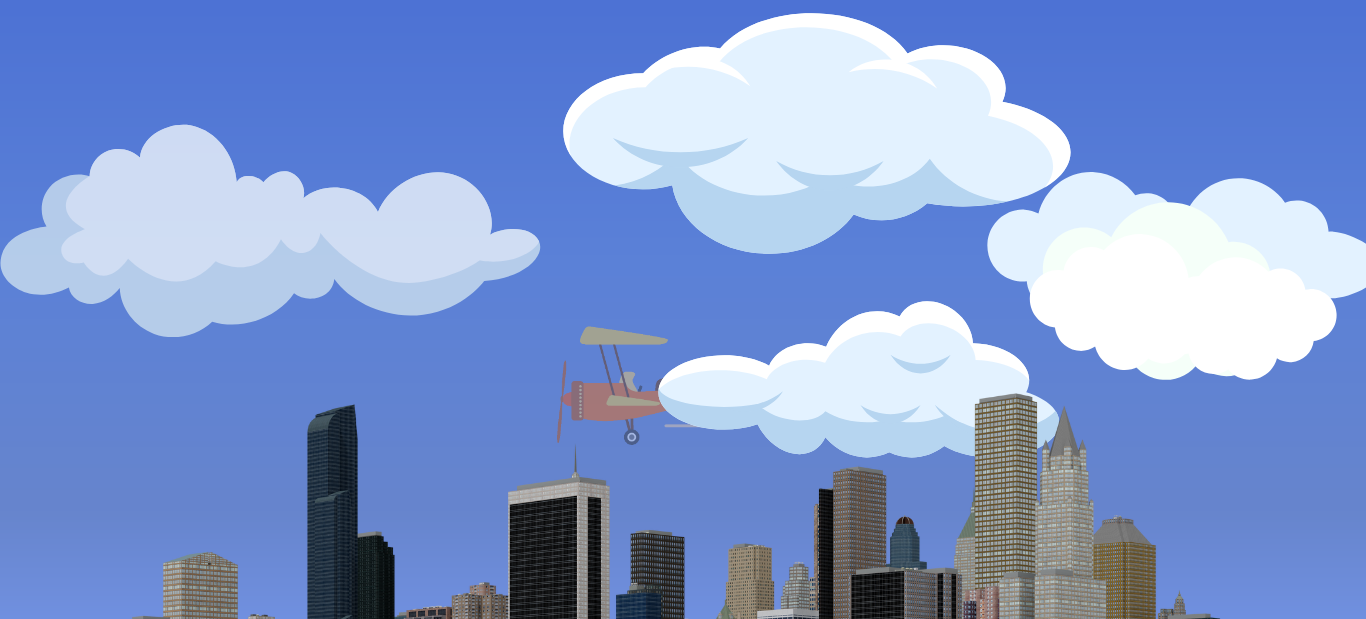
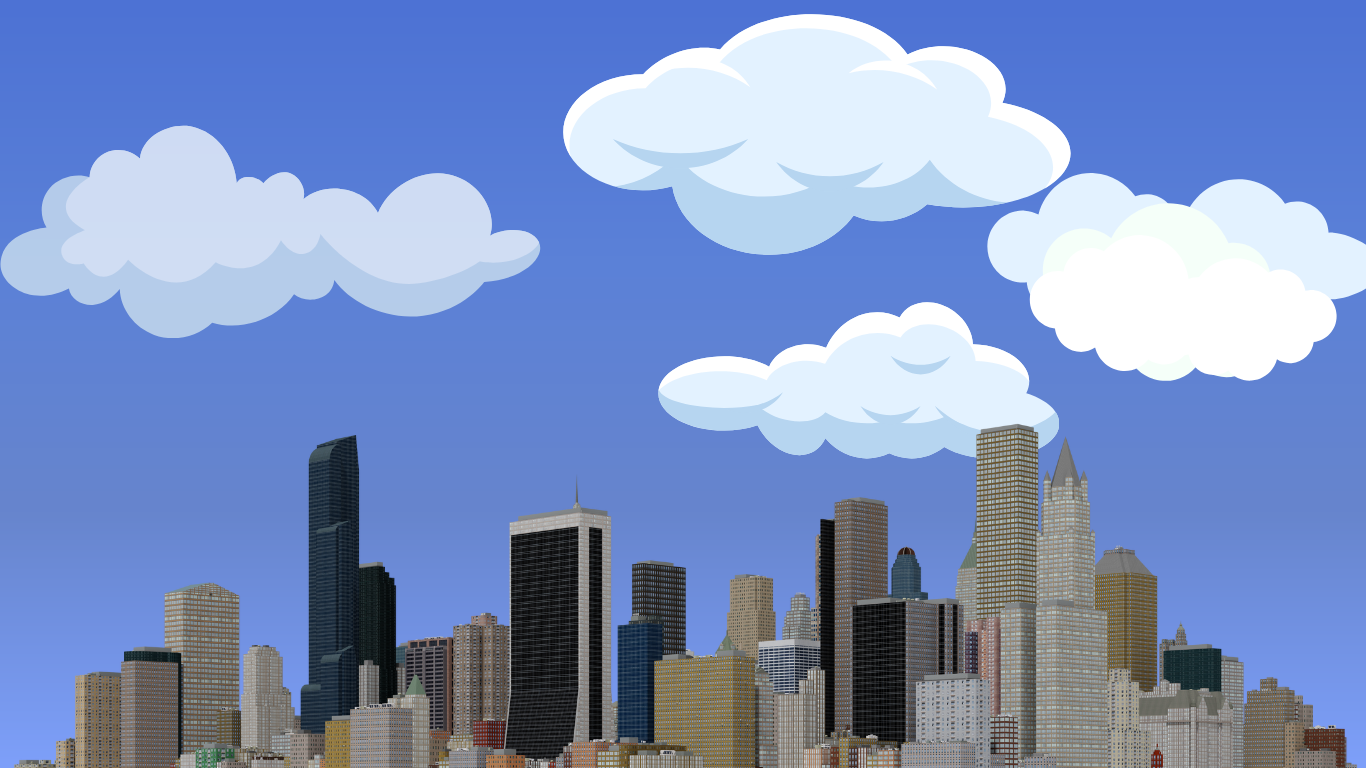
animations

diff --git a/index.html b/index.html
@@ -78,7 +78,9 @@
             <h1>Explore o mundo da ciência com a gente</h1>
           </div>
           <div class="col-12 col-lg-6">
-            <img src="img/index/logo-index.png" alt="Logo de ciencias" />
+            <div class="main-logo"> <img  src="img/index/index-logo.png" alt="Logo de ciencias" /></div>
+           
+            <div class="main-foguete"> <img  src="img/index/index-foguete.png" alt="Logo de ciencias" /></div>
           </div>
         </div>
       </div>
@@ -302,7 +304,7 @@
       <div class="container">
         <h3 class="depositions-title text-center">Depoimentos</h3>
         <div class="row text-center d-flex justify-content-around">
-          <div class="my-card col-lg-4">
+          <div class="my-card col-12 col-lg-4">
             <img src="img/cat-gbb831336d_640.jpg" alt="" />
 
             <p class="pt-3">lorem ipsum</p>
@@ -314,7 +316,7 @@
             </p>
             <b><i class="pt-3">lorem ipsum</i></b>
           </div>
-          <div class="my-card col-lg-4">
+          <div class="my-card col-12 col-lg-4">
             <img src="img/cat-gbb831336d_640.jpg" alt="" />
 
             <p class="pt-3">lorem ipsum</p>
@@ -326,7 +328,7 @@
             </p>
             <b><i class="pt-3">lorem ipsum</i></b>
           </div>
-          <div class="my-card col-lg-4">
+          <div class="my-card col-12 col-lg-4">
             <img src="img/cat-gbb831336d_640.jpg" alt="" />
             <p class="pt-3">lorem ipsum</p>
             <p class="pt-3 pb-3  text-left">
@@ -402,7 +404,9 @@
       </div>
     </section>
     <section class="city">
-      <div class="container"></div>
+      <div class="container">
+        <img src="img/index/index-aviao.gif" alt="">
+      </div>
     </section>
     <footer class="pt-3">
       <div class="container-fluid">

diff --git a/style/style_index.css b/style/style_index.css
@@ -9,15 +9,36 @@ header {
 
 .main {
     background: url("../img/index/index-background.png") no-repeat 0 0;
- 
     background-size: cover;
-    min-height: 768px;
-    width: 100%;
+    max-height: 768px;
+
   }
 
-  .main img {
+  .main-logo img {
     min-width: 100%;
     transform: translate(-13%, -3%);
+  }
+
+   .main-foguete img {
+    max-width: 100%;
+    transform: translate(50%, -115%);
+    animation: UpDown 3s linear infinite;
+    font-size: 4em;
+      cursor: pointer;
+      color: #715c3f;
+  
+  }
+  
+  @keyframes UpDown {
+    0% {
+      transform: translate(50%, -115%);
+    }
+    50% {
+      transform: translate(50%, -110%);
+    }
+    100% {
+      transform: translate(50%, -115%);
+    }
   }
   .main-title {
     margin: 150px 0 50px 0;
@@ -130,6 +151,11 @@ header {
     background: url("../img/index/index-background-6.png") no-repeat 0 0;
     background-size: cover;
     min-height: 768px;
+  }
+
+  .city img {
+    height: 125px;
+    transform: translate(200%, 250%);
   }
 
   .night {
@@ -600,7 +626,28 @@ header {
 .owl-next img {
   display: none;
 }
+@media only screen and (min-width:1840px) {
+  .main, .events, .info, .depositions, .galery, .city  {
+   min-height: 1200px;
+  }
+ }
+
+@media only screen and (min-width:1367px) and (max-width:1839px) {
+ .main, .events, .info, .depositions, .galery, .city  {
+  min-height: 1000px;
+ }
+}
+
+@media only screen and (max-width:992px) {
+.main {
+  min-height: 768px;
+}
+}
 @media only screen and (max-width: 767px) {
+
+  .main-foguete img {
+    max-width: 250px;
+  }
   .main-reviewimage {
     height: 400px;
     width: 425px;

diff --git a/style/style_inovacao.css b/style/style_inovacao.css
@@ -1,11 +1,11 @@
 header {
-  background-color: #9D513D;
+  background-color: #A76F03;
 }
 
 
 /* main */
 .main {
-    background-color: #9D513D;
+    background-color: #A76F03;
     background-size: cover;
     
   }
@@ -19,16 +19,16 @@ header {
   }
   /* course */
   .course {
-    background-color: #D0A94C;
+    background-color: #9B2B0A;
     background-size: cover;
   
   }
 
   .area {
-    background-color: #9D513D;
+    background-color: #A76F03;
   }
   .card-area {
-    background-color: #D0A94C;
+    background-color: #FC744A;
   }
   .area-title {
     color: #000000;

diff --git a/style/style_programacao.css b/style/style_programacao.css
@@ -41,7 +41,7 @@ header {
   }
 /* teacher */
   .teacher {
-    background: url("../img/programacao/programacao-background-2.png");
+    background:  linear-gradient(180deg, #383A46 0%, #000000 50%, #000000 100%);
   }
 
   .teacher p,

diff --git a/style/style_ciencias.css b/style/style_ciencias.css
@@ -40,7 +40,7 @@ header {
   }
   /* teacher */
   .teacher {
-    background: url("../img/ciencias/ciencias-background-2.png");
+    background:  linear-gradient(180deg, #0A4B20 0%,#000000 100%);
   }
 
   .teacher p,

diff --git a/style/geral_style.css b/style/geral_style.css
@@ -273,3 +273,5 @@ footer img {
   margin-left: 10px;
   margin-bottom: 20px;
 }
+
+    
